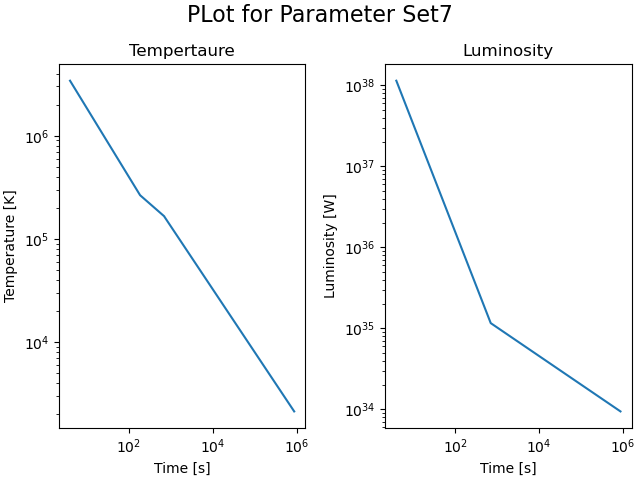
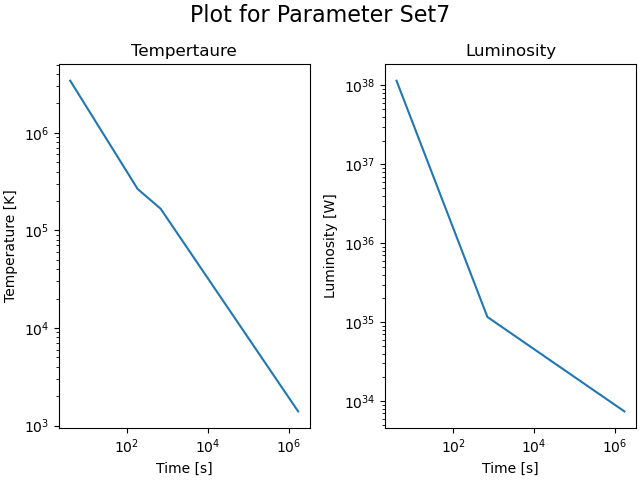
Temperature plots

diff --git a/main.py b/main.py
@@ -2,21 +2,22 @@
 import numpy as np
 from function_declaration import *
 import matplotlib.pyplot as plt
+import magnitude as mag
 
 #importing .txt file with values such as stellar radius and stellar mass
 input_ar = [[500,100,600,800,10,80,50,20],[15,7.5,25,40,10,200,150,70],[1,0.5,3,5,7,10,8,2],[1.5,1.5,1.5,1.5,3,3,3,3],[0.034,0.034,0.034,0.034,0.02,0.02,0.034,0.034]
 ,[0.19,0.19,0.19,0.19,0.19,0.19,0.19,0.19]]
 
-solar_M = 2e30
-solar_R = 6.96e8
-solar_L = 3.8e26
+mass_solar = 2e30
+radius_solar = 6.96e8
+luminosity_solar = 3.8e26
 c = 3e8
-n_d = 20
+n_d = 10
 
 for i in range(8):
-    R = input_ar[0][i]*solar_R
-    M = input_ar[1][i]*solar_M
-    M_15 = M/(15*solar_M)
+    R = input_ar[0][i]*radius_solar
+    M = input_ar[1][i]*mass_solar
+    M_15 = M/(15*mass_solar)
     E_51 = input_ar[2][i]
     n = input_ar[3][i]
     kappa = input_ar[4][i]
@@ -32,11 +33,12 @@ for i in range(8):
     time = int(t_0)
     luminosity_obs = np.zeros(n_d*24*3600-int(t_0))
     temp = np.zeros(n_d*24*3600-int(t_0))
+#    Mag = np.zeros(n_d*24*3600-int(t_0))
     print_time = np.zeros(n_d*24*3600-int(t_0))
     for time in range(int(t_0),n_d*24*3600):
-        luminosity_obs[time-int(t_0)] = luminosity(time,t_0,t_s,m_0,v_0,n)
         print_time[time-int(t_0)] = time
         temp[time-int(t_0)] = temp_observable(time,t_0,t_s,v_0,n, m_0, R,mu, rho_0)
+        luminosity_obs[time-int(t_0)] = luminosity(time,t_0,t_s,m_0,v_0,n)
 
 
 
@@ -51,10 +53,23 @@ for i in range(8):
     ax2.set_title("Luminosity")
     ax2.set_xlabel("Time [s]")
     ax2.set_ylabel("Luminosity [W]")
+#    ax2.plot(print_time,Mag)
+#    plt.xscale("log")
+#    ax2.set_title("Absolute Magnitude")
+#    ax2.set_xlabel("Time [s]")
+#    ax2.set_ylabel("Magnitude")
 
-    plt.savefig("Plots\plot"+str(i)+".png")
+    plt.savefig("Plots\plot_"+str(i)+".png")
 
     plt.clf()
+#
+#    plt.plot(print_time,Mag)
+#    plt.xscale("log")
+#    plt.title("Magnitude Parameter Set"+str(i))
+#    plt.xlabel("Time [s]")
+#    plt.ylabel("Magnitude")
+
+#    plt.savefig("Plots\Magnitude_plot_"+str(i)+".png")
 
 
 
